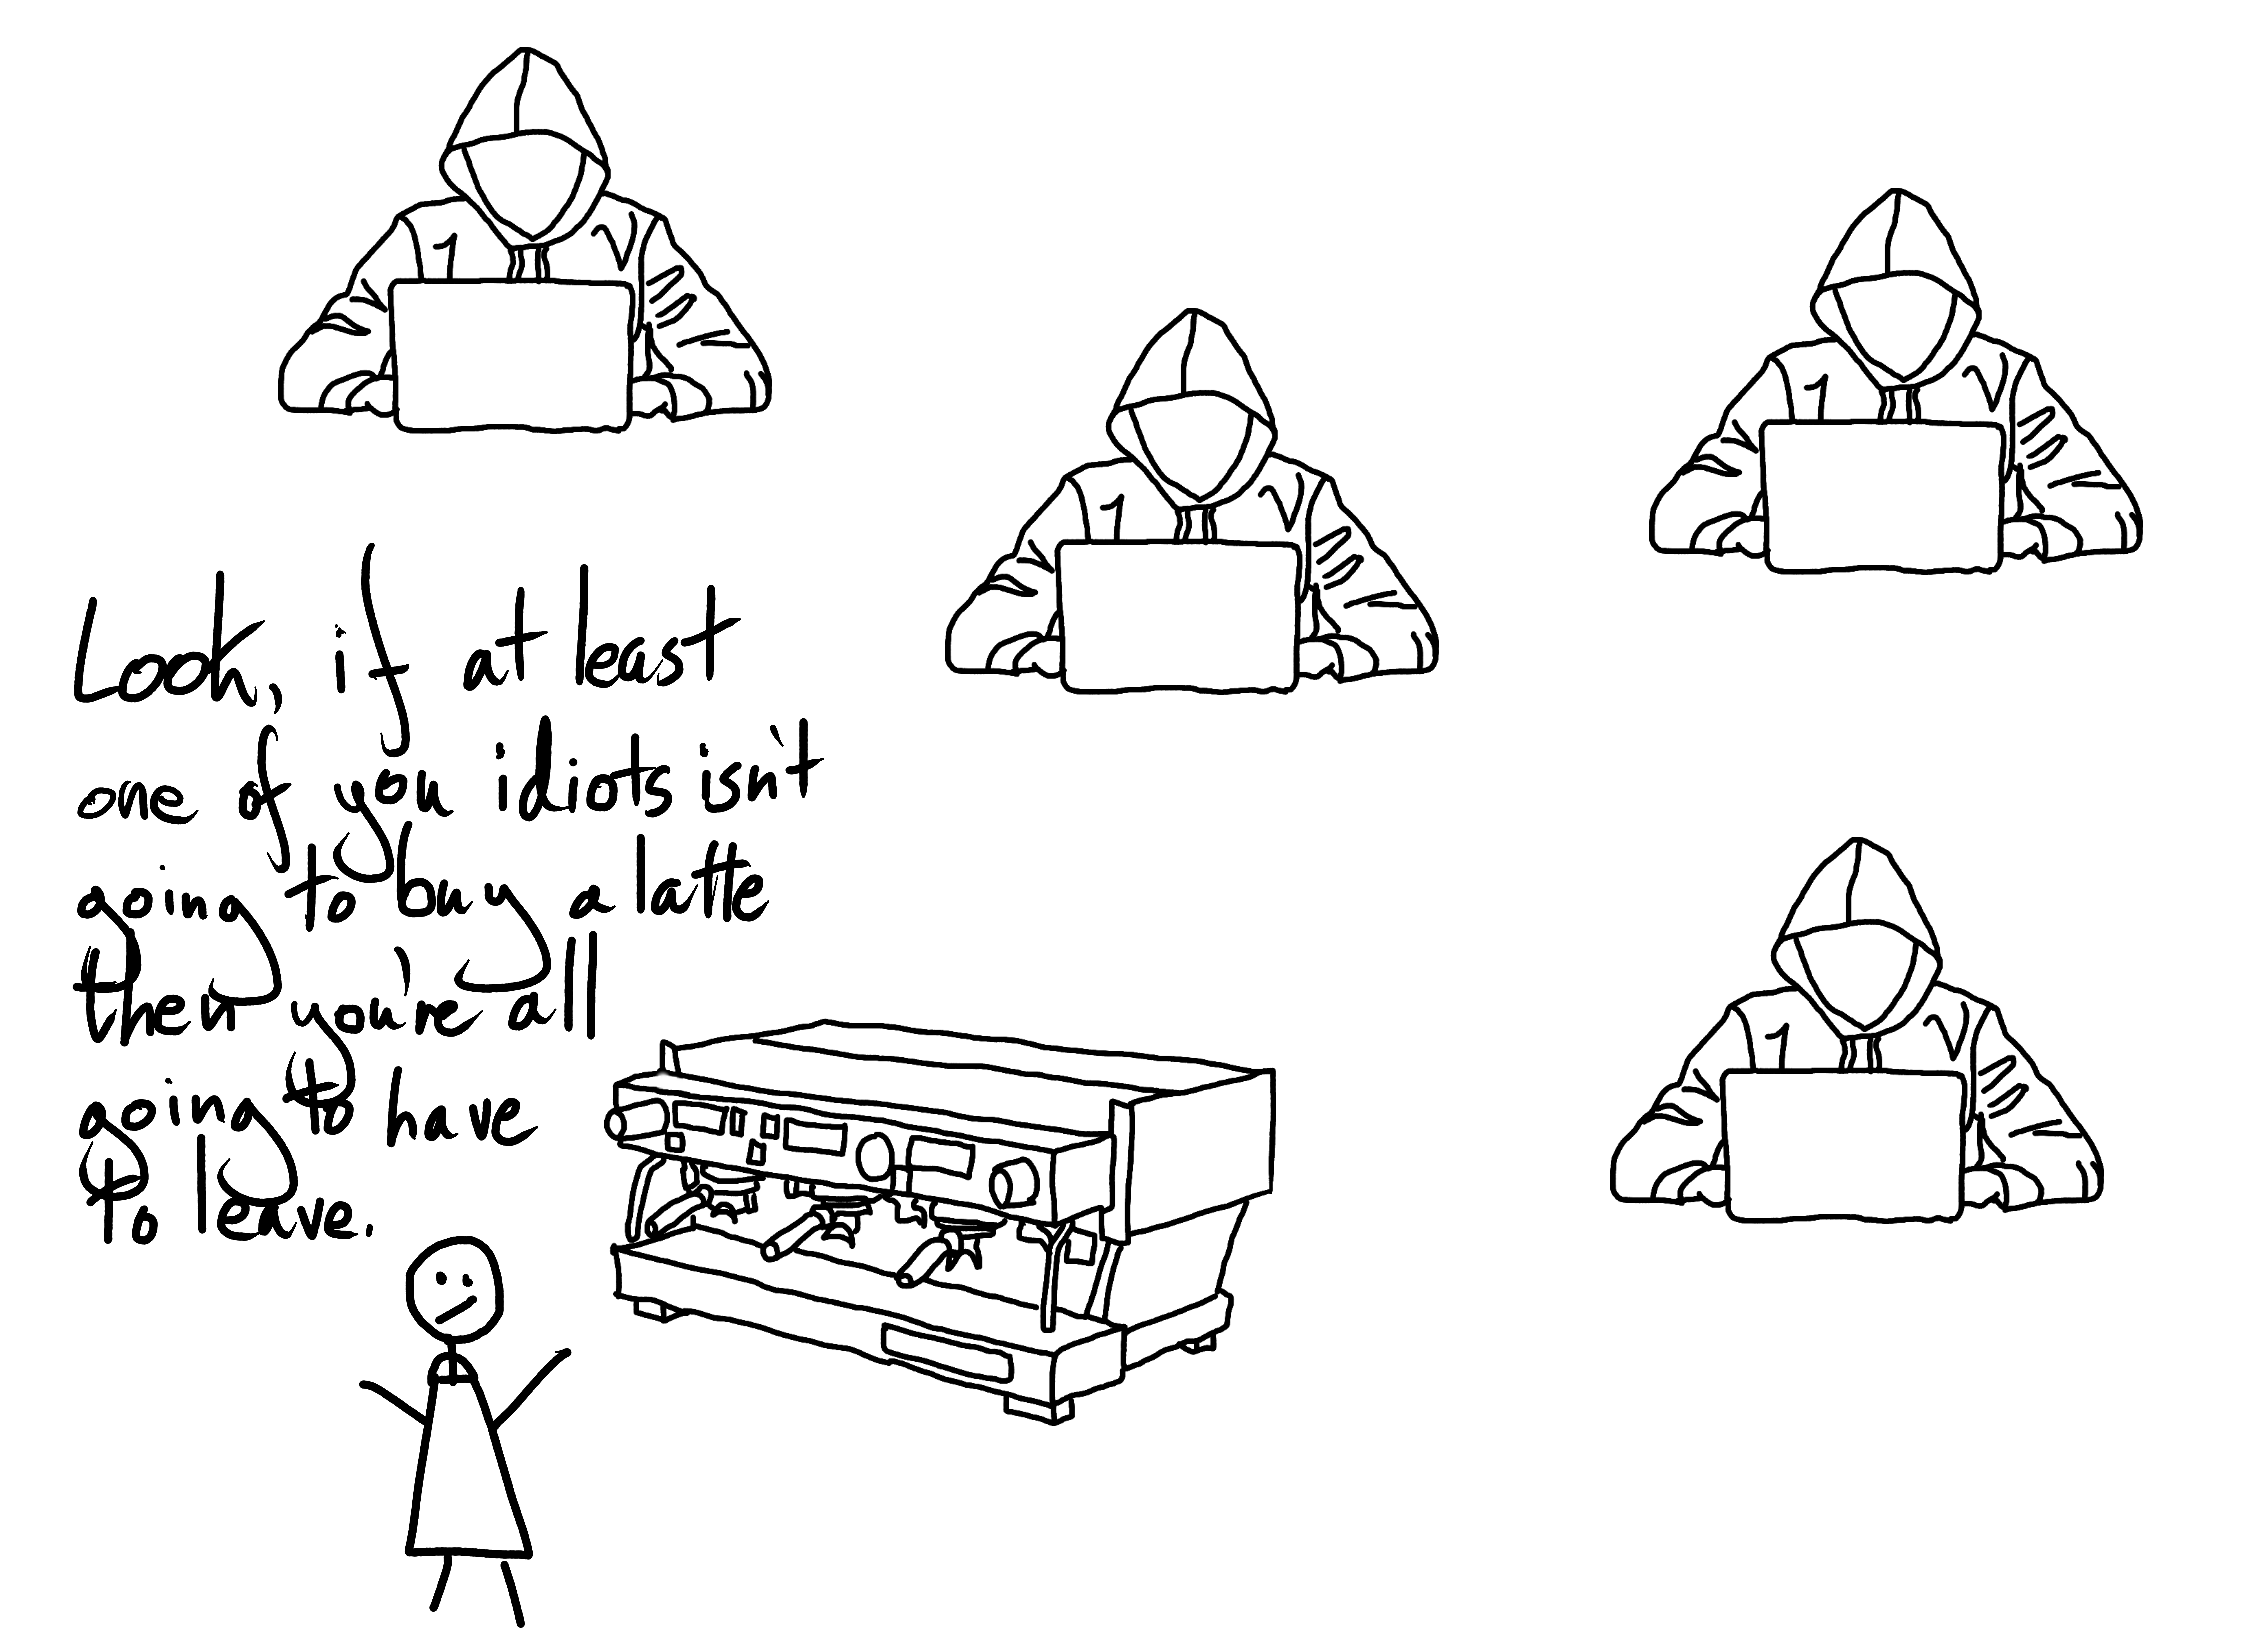
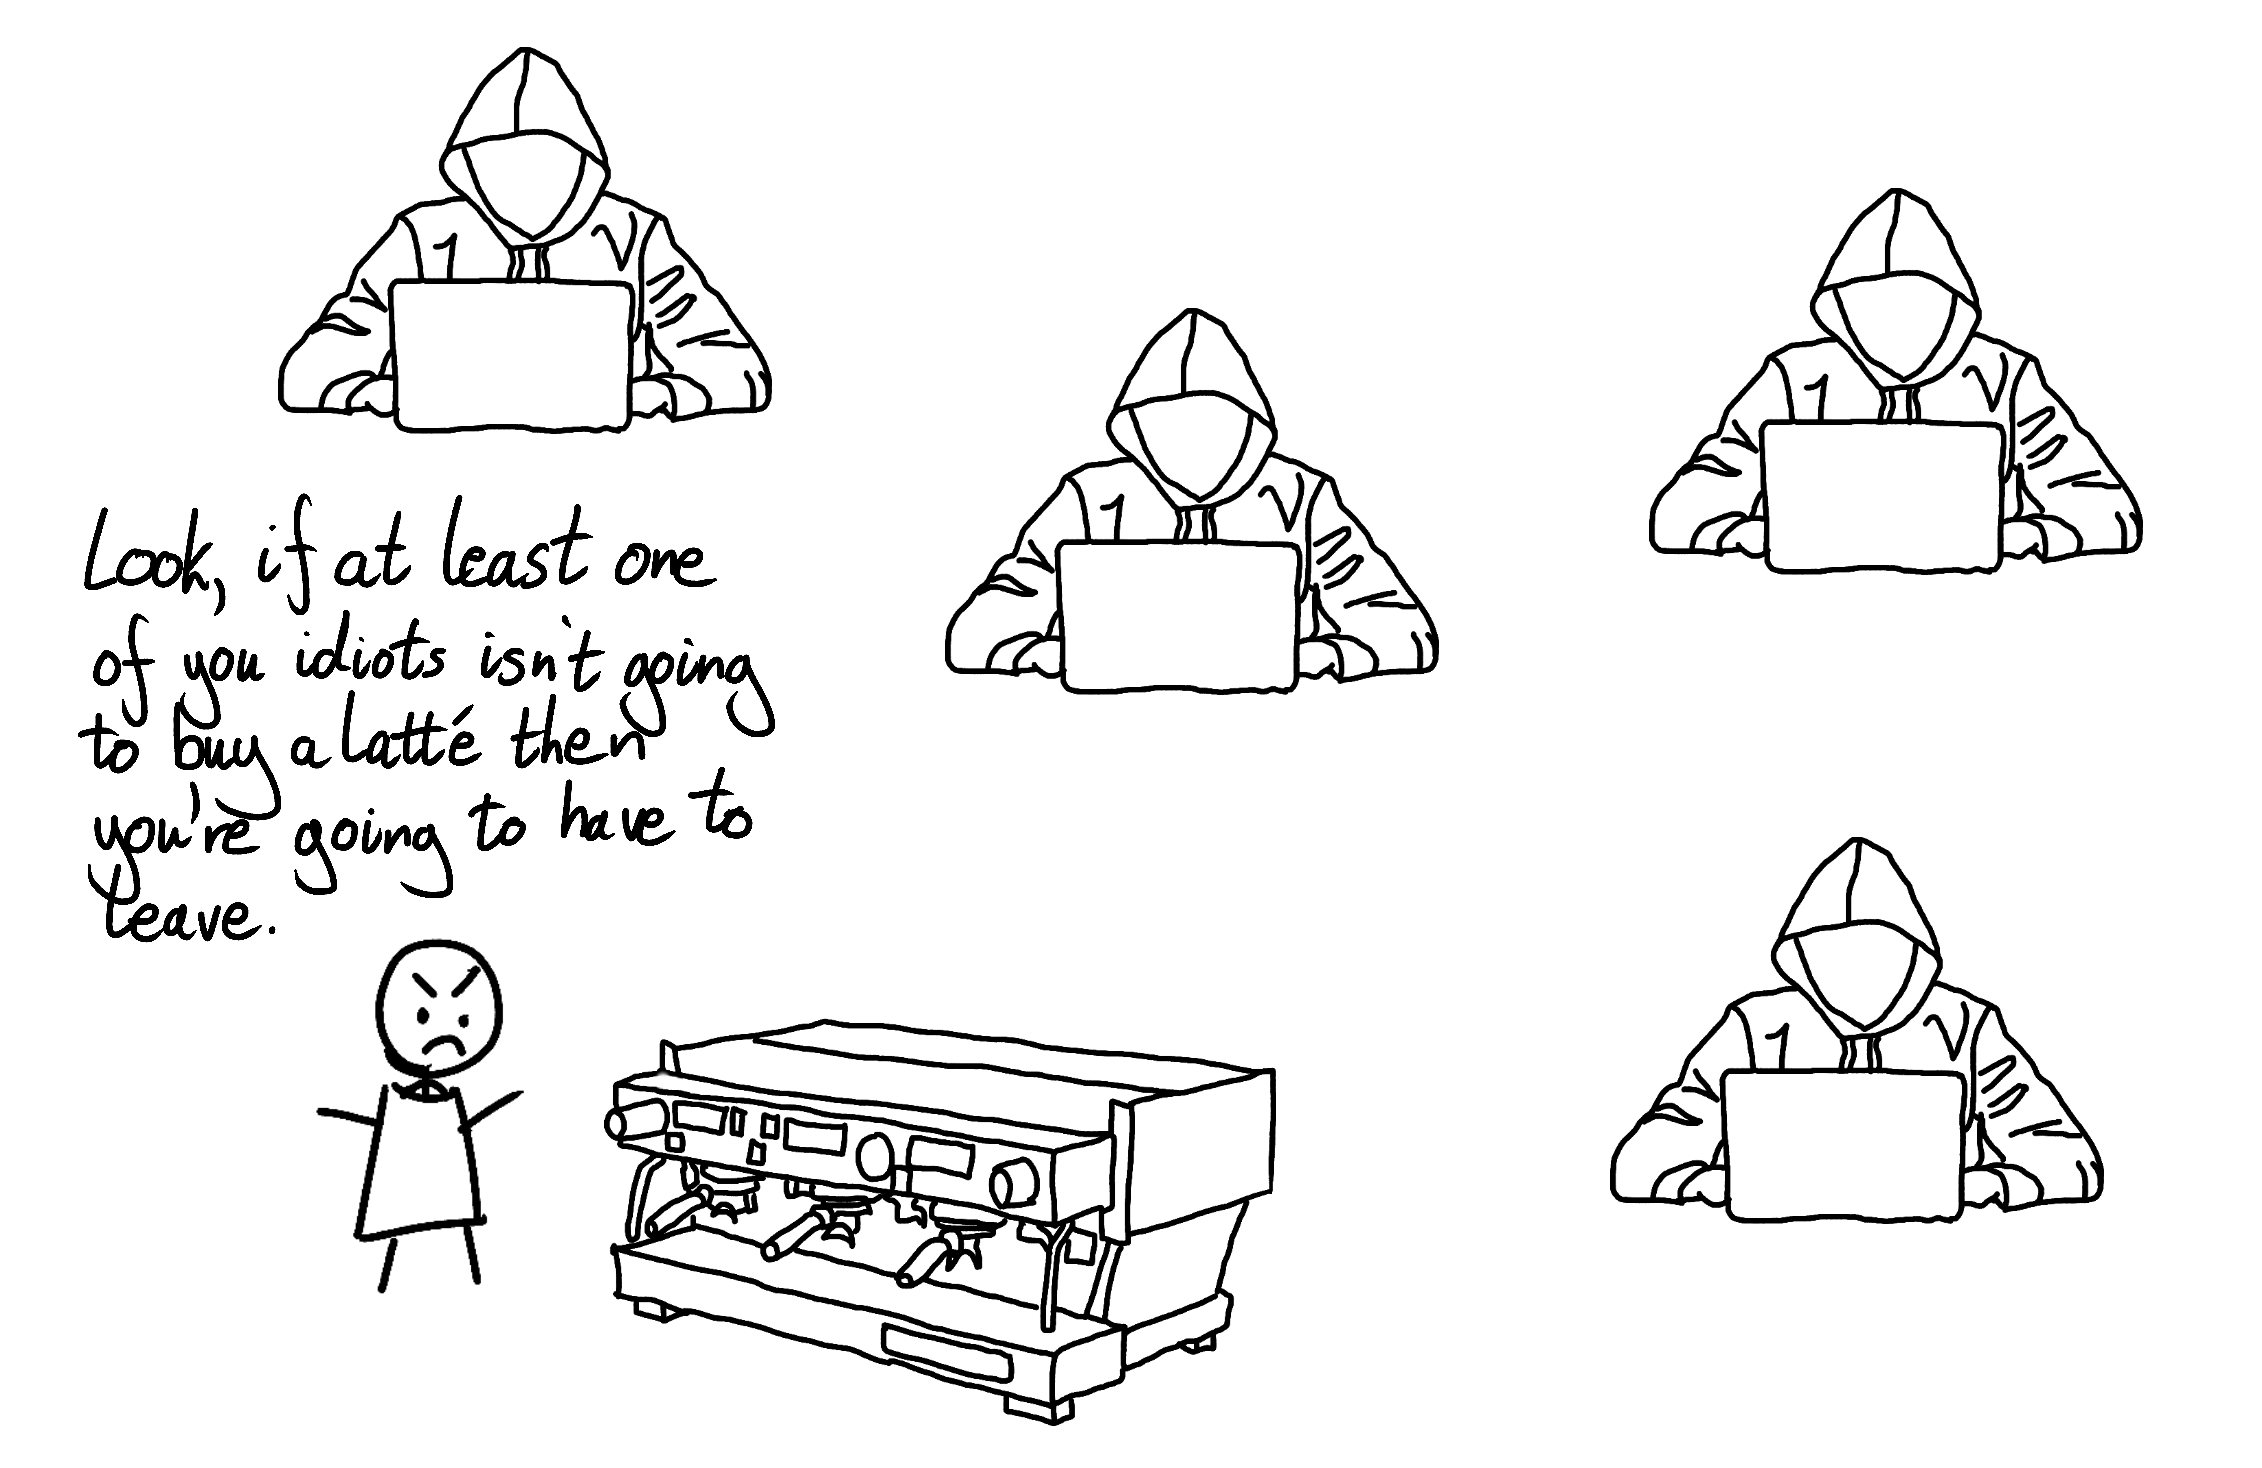
wip

diff --git a/_includes/rss_home.html b/_includes/rss_home.html
@@ -8,7 +8,7 @@
       Subscribe to my new work on programming, security, and a few other
       topics. Published a few times a month.
     </p>
-    <input autofocus="autofocus" aria-describedby="mce-email-describe" type="email" value="" name="EMAIL" class="required email" id="mce-EMAIL" placeholder="Your email address" style="width:250px;font-size: 1.1em; padding-left:4px; line-height:1.7em">
+    <input aria-describedby="mce-email-describe" type="email" value="" name="EMAIL" class="required email" id="mce-EMAIL" placeholder="Your email address" style="width:250px;font-size: 1.1em; padding-left:4px; line-height:1.7em">
 
     <div id="mce-responses" class="clear" style="margin-top: 10px">
       <div class="response" id="mce-error-response" style="display:none"></div>

diff --git a/_includes/navbar.html b/_includes/navbar.html
@@ -1,5 +1,5 @@
 <header>
-  <div class="container">
+  <div class="container" style="margin-top: -20px">
     <h1 style="position: relative; top: 10px;">
       <a href="/">Robert Heaton</a>
     </h1>
@@ -9,9 +9,10 @@
       Software Engineer / One-track lover / Down a two-way lane
     </p>
 
-    <nav role="navigation" style="margin-top:24px">
+    <nav role="navigation" style="margin-top: -5px">
       <ul>
         <li><a href="/about">About</a></li>
+        <li><a href="/archive">Archive</a></li>
         <li><a href="https://twitter.com/RobJHeaton">Twitter</a></li>
         <li><a href="/2018/12/08/programming-projects-for-advanced-beginners/">Programming Projects for Advanced Beginners</a></li>
       </ul>

diff --git a/_includes/header.html b/_includes/header.html
@@ -105,7 +105,7 @@ body {
 
 header {
   *zoom: 1;
-  padding-bottom: 40px;
+  padding-bottom: 17px;
   line-height: 1.3em;
   background: #f0f1f2;
   -webkit-box-sizing: border-box;
@@ -228,6 +228,10 @@ a, .as-link {
   -moz-box-sizing: border-box;
   box-sizing: border-box; }
 
+.home .container {
+  padding-bottom: 0px;
+}
+
 @media (min-width: 960px) {
   .container {
     width: 80%; } }
@@ -254,7 +258,7 @@ hr {
 ul.posts {
   padding: 0;
   max-width: 800px;
-  margin: 0 auto 40px; }
+  margin: 0 auto 17px; }
   ul.posts li {
     margin: 0;
     padding: 0;

diff --git a/index.html b/index.html
@@ -64,9 +64,7 @@ title: Robert Heaton
     </ul>
   </div>
 
-  <div class="home-img">
-    <img src="/images/dark-souls-cover.png" />
-  </div>
+  {% include rss_home.html %}
 
   <div class="topic-box">
     <h2>{{ site.data.home.computer_games.title }}</h2>
@@ -92,6 +90,10 @@ title: Robert Heaton
         </li>
       {% endfor %}
     </ul>
+  </div>
+
+  <div class="home-img">
+    <img src="/images/dark-souls-cover.png" />
   </div>
 
   <div class="topic-box">

diff --git a/archive.html b/archive.html
@@ -3,6 +3,8 @@ layout: index
 title: Archive - Robert Heaton
 ---
 <div id="home">
+  {% include rss_home.html %}
+
   <ul class="posts">
     {% for post in site.posts %}
     <li>

diff --git a/_posts/2019-04-07-open-source-for-advanced-beginners-1-bashplotlib.md b/_posts/2019-04-07-open-source-for-advanced-beginners-1-bashplotlib.md
@@ -3,6 +3,7 @@ title: "Open Source for Advanced Beginners #1: bashplotlib"
 layout: post
 tags: [Programming Projects for Advanced Beginners]
 og_image: https://robertheaton.com/images/robot-army-cover.png
+published: false
 ---
 I've found an accessible open source project, and have written 7 detailed feature requests for it. Your task is to read the project's code, understand it, and write these features.
 
